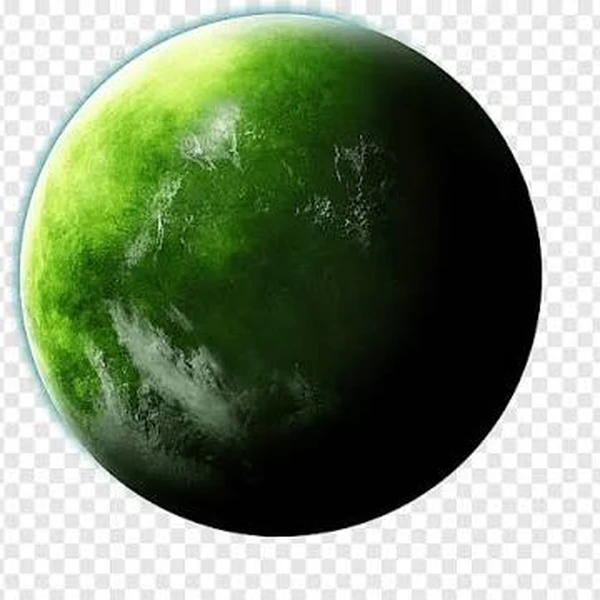
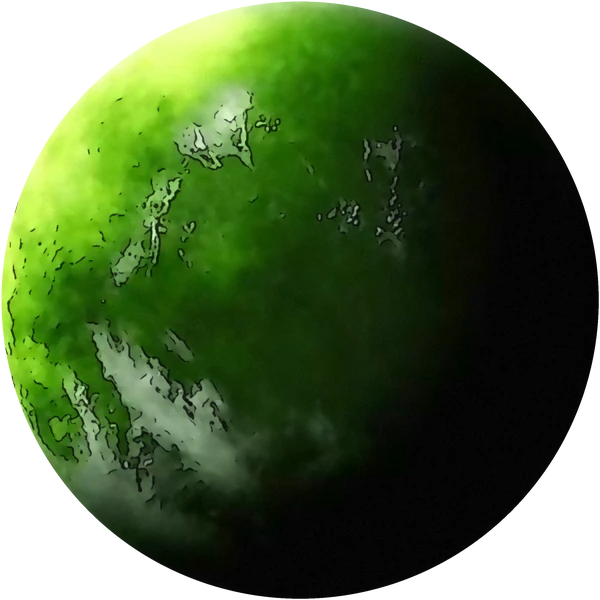
芙罗拉星换上新的星球图（瘴气化前 / 后）
Claude-Session: https://claude.ai/code/session_01JDiALkpbsdjX6YMkLW4X8m

diff --git a/js/data/changelog.js b/js/data/changelog.js
@@ -10,7 +10,8 @@ var CHANGELOG = [
     '叶子喵加入后的战斗，开战前可以勾选带上叶子喵助战（剧情限定特性「净化光芒」：对瘴气精灵伤害 +100%）',
     '炸弹那一战改成一场：一直往炸弹里注入能量，打到一定程度会插播剧情',
     '瘴气化之后，芙罗拉星每个区域都换成了缠满深紫色瘴气脉络的画面',
-    '已经读过旧版的船员，可以在芙罗拉星 · 丛林深处点「重温剧情」看新版本'
+    '已经读过旧版的船员，可以在芙罗拉星 · 丛林深处点「重温剧情」看新版本',
+    '芙罗拉星换上了新的星球图；读完第八段之后，星球会变成被瘴气侵蚀的样子'
   ] },
   { date: '2026-10-17', title: '首领「荒芜」困难难度', items: [
     '首领「荒芜」新增困难难度：完成主线「第八段 · 深入丛林」后，2026-10-18 16:00 开放，和是否打过普通难度无关',
